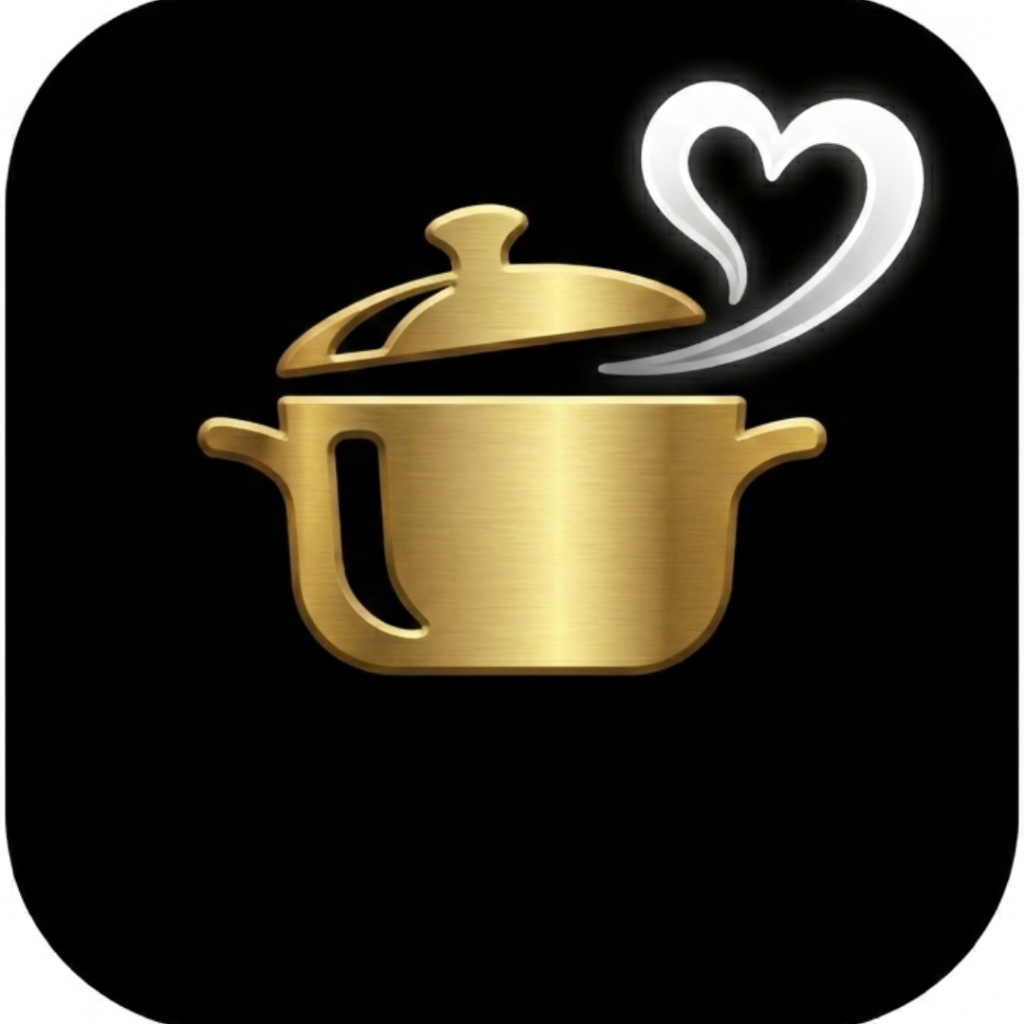
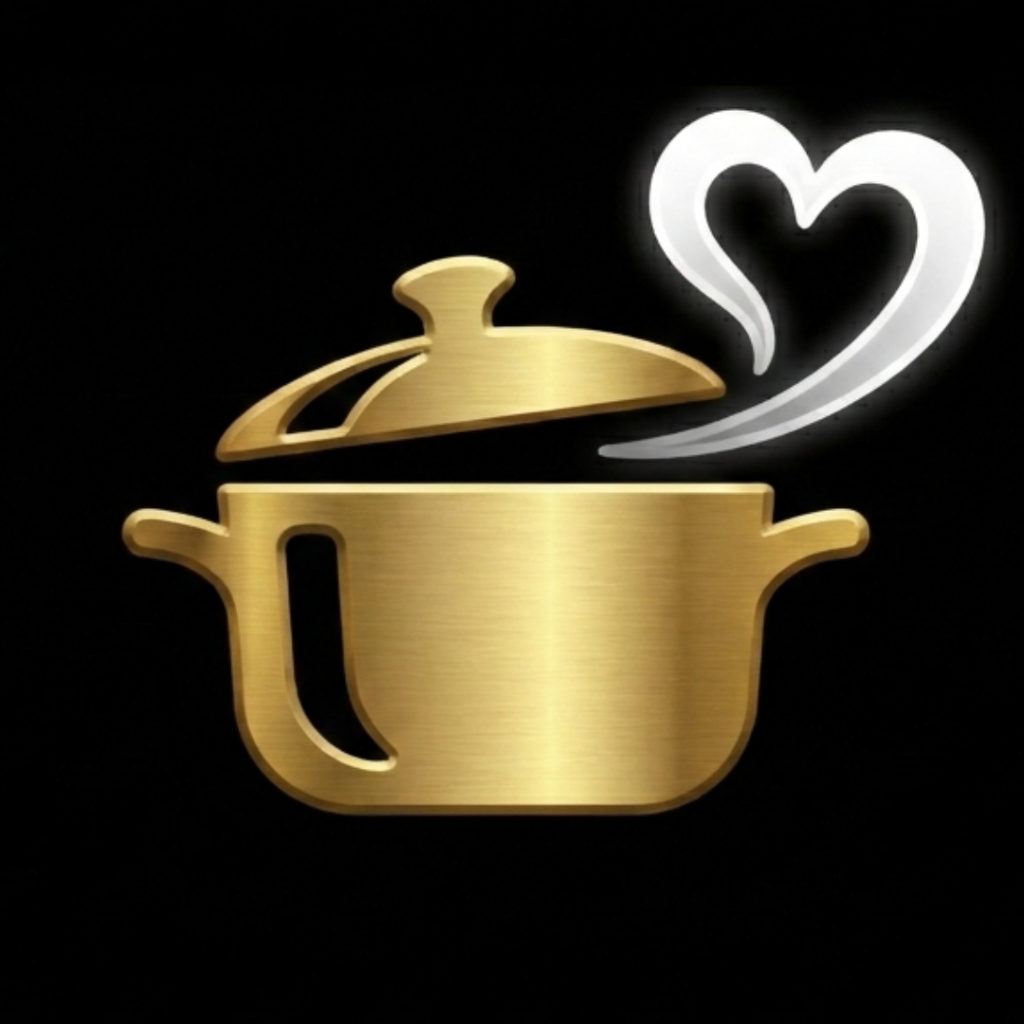
Phase 4 & 5 Complete: Rebrand to 'Cook!', UI Polish & Debloat
- Renamed app to 'Cook!' and updated icon

- Implemented 2x2 grid layout for Favorites and Suggest sections

- Fixed bug causing Suggest cards to appear in Favorites

- Debloated Suggest UI by removing redundant buttons

- Updated manifest and project documentation

diff --git a/index.html b/index.html
@@ -6,11 +6,13 @@
     <meta name="viewport" content="width=device-width, initial-scale=1.0, user-scalable=no">
     <meta name="description"
         content="Your personal vacuum sealing companion - recipes, tips, and food preservation guides">
-    <title>VacuPrep - Your Meal Prep Companion</title>
+    <title>Cook! - Your Meal Prep Companion</title>
     <link rel="preconnect" href="https://fonts.googleapis.com">
     <link rel="preconnect" href="https://fonts.gstatic.com" crossorigin>
     <link href="https://fonts.googleapis.com/css2?family=Inter:wght@300;400;500;600;700;800&display=swap"
         rel="stylesheet">
+
+
 
     <!-- PWA Meta Tags -->
     <link rel="manifest" href="manifest.json">
@@ -1550,6 +1552,68 @@
             background: var(--bg-surface);
             color: var(--text-primary);
         }
+
+        /* ==========================================
+           FAVORITES GRID (2x2)
+           ========================================== */
+        .favorites-list {
+            display: grid;
+            grid-template-columns: 1fr 1fr;
+            gap: 0.5rem;
+            /* Reduced gap */
+        }
+
+        /* Ensure items stretch */
+        .favorite-item {
+            height: 100%;
+            display: flex;
+            align-items: center;
+            padding: 0.75rem;
+            /* Compact padding */
+        }
+
+        /* ==========================================
+           SUGGEST SECTION
+           ========================================== */
+        .suggest-cards {
+            display: grid;
+            grid-template-columns: repeat(2, 1fr);
+            gap: 0.75rem;
+            margin-bottom: 1.5rem;
+        }
+
+        /* Force 2x2 on mobile too for compactness */
+        @media (max-width: 500px) {
+            .suggest-cards {
+                grid-template-columns: 1fr 1fr;
+            }
+        }
+
+        .suggest-card {
+            cursor: pointer;
+            transition: transform 0.2s, background-color 0.2s;
+        }
+
+        .suggest-card:hover {
+            background: var(--bg-elevated);
+            transform: translateY(-2px);
+        }
+
+        .suggest-card h3 {
+            font-size: 0.95rem;
+            /* Slightly smaller */
+        }
+
+        .suggest-card p {
+            font-size: 0.8rem;
+            margin-bottom: 0.5rem;
+        }
+
+        .suggest-card-icon {
+            font-size: 2rem;
+            /* Smaller icon */
+            margin-bottom: 0.5rem;
+        }
     </style>
 </head>
 
@@ -1559,7 +1623,7 @@
         <div class="header-content">
             <div class="logo">
                 <span class="logo-icon">🔒</span>
-                <span>VacuPrep</span>
+                <span>Cook!</span>
             </div>
             <nav class="desktop-nav">
                 <button class="desktop-nav-btn active" data-section="favorites">⭐ Favorites</button>
@@ -1890,37 +1954,8 @@
                     <p class="section-subtitle">Not sure what to make? Let us help!</p>
                 </div>
 
-                <div class="suggest-cards">
-                    <div class="suggest-card" id="suggestFavorites">
-                        <div class="suggest-card-icon">⭐</div>
-                        <h3>Family Favorites</h3>
-                        <p>Pick from recipes you already love</p>
-                        <button class="btn-primary suggest-btn" data-type="favorites">Show Me</button>
-                    </div>
-
-                    <div class="suggest-card" id="suggestQuick">
-                        <div class="suggest-card-icon">⚡</div>
-                        <h3>Quick Meals</h3>
-                        <p>Ready in 30 minutes or less</p>
-                        <button class="btn-primary suggest-btn" data-type="quick">Show Me</button>
-                    </div>
-
-                    <div class="suggest-card" id="suggestRandom">
-                        <div class="suggest-card-icon">🎲</div>
-                        <h3>Surprise Me!</h3>
-                        <p>Random pick from all recipes</p>
-                        <button class="btn-primary suggest-btn" data-type="random">Show Me</button>
-                    </div>
-
-                    <div class="suggest-card" id="suggestWeek">
-                        <div class="suggest-card-icon">📅</div>
-                        <h3>Plan My Week</h3>
-                        <p>Auto-fill your weekly planner</p>
-                        <button class="btn-primary suggest-btn" data-type="week">Fill Week</button>
-                    </div>
-                </div>
-
-                <div id="suggest-result" class="suggest-result hidden">
+                <!-- Result Box Moved to Top -->
+                <div id="suggest-result" class="suggest-result hidden" style="margin-bottom: 1.5rem;">
                     <h3 id="suggest-result-title">Suggested Recipe</h3>
                     <div id="suggest-result-content"></div>
                     <div class="suggest-result-actions">
@@ -1928,8 +1963,35 @@
                         <button class="btn-primary" id="addToPlannerBtn">Add to Planner</button>
                     </div>
                 </div>
+
+                <div class="suggest-cards">
+                    <div class="suggest-card" id="suggestFavorites" data-type="favorites">
+                        <div class="suggest-card-icon">⭐</div>
+                        <h3>Family Favorites</h3>
+                        <p>Pick from recipes you already love</p>
+                    </div>
+
+                    <div class="suggest-card" id="suggestQuick" data-type="quick">
+                        <div class="suggest-card-icon">⚡</div>
+                        <h3>Quick Meals</h3>
+                        <p>Ready in 30 minutes or less</p>
+                    </div>
+
+                    <div class="suggest-card" id="suggestRandom" data-type="random">
+                        <div class="suggest-card-icon">🎲</div>
+                        <h3>Surprise Me!</h3>
+                        <p>Random pick from all recipes</p>
+                    </div>
+
+                    <div class="suggest-card" id="suggestWeek" data-type="week">
+                        <div class="suggest-card-icon">📅</div>
+                        <h3>Plan My Week</h3>
+                        <p>Auto-fill your weekly planner</p>
+                    </div>
+                </div>
             </div>
         </section>
+
 
     </main>
 

diff --git a/main.js b/main.js
@@ -1593,9 +1593,11 @@ function fillWeekWithSuggestions() {
 }
 
 function setupSuggest() {
-    document.querySelectorAll('.suggest-btn').forEach(btn => {
-        btn.addEventListener('click', () => {
-            const type = btn.dataset.type;
+    document.querySelectorAll('.suggest-card').forEach(card => {
+        card.addEventListener('click', () => {
+            const type = card.dataset.type;
+            if (!type) return; // Guard against non-action cards
+
             AppState.suggestType = type;
 
             let recipeList = [];
